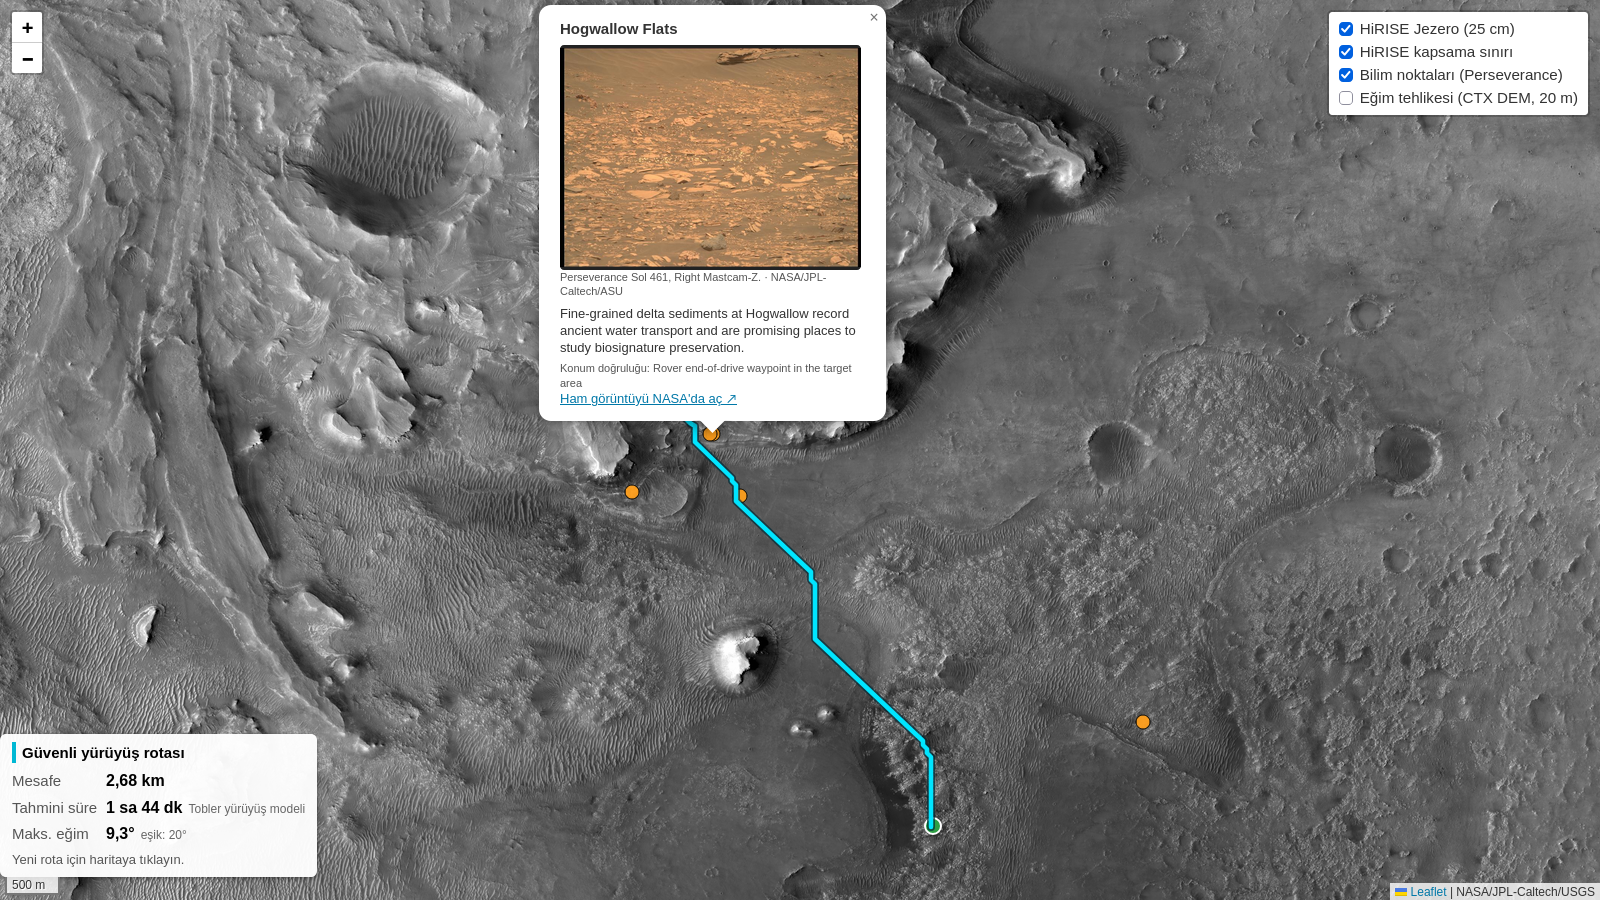
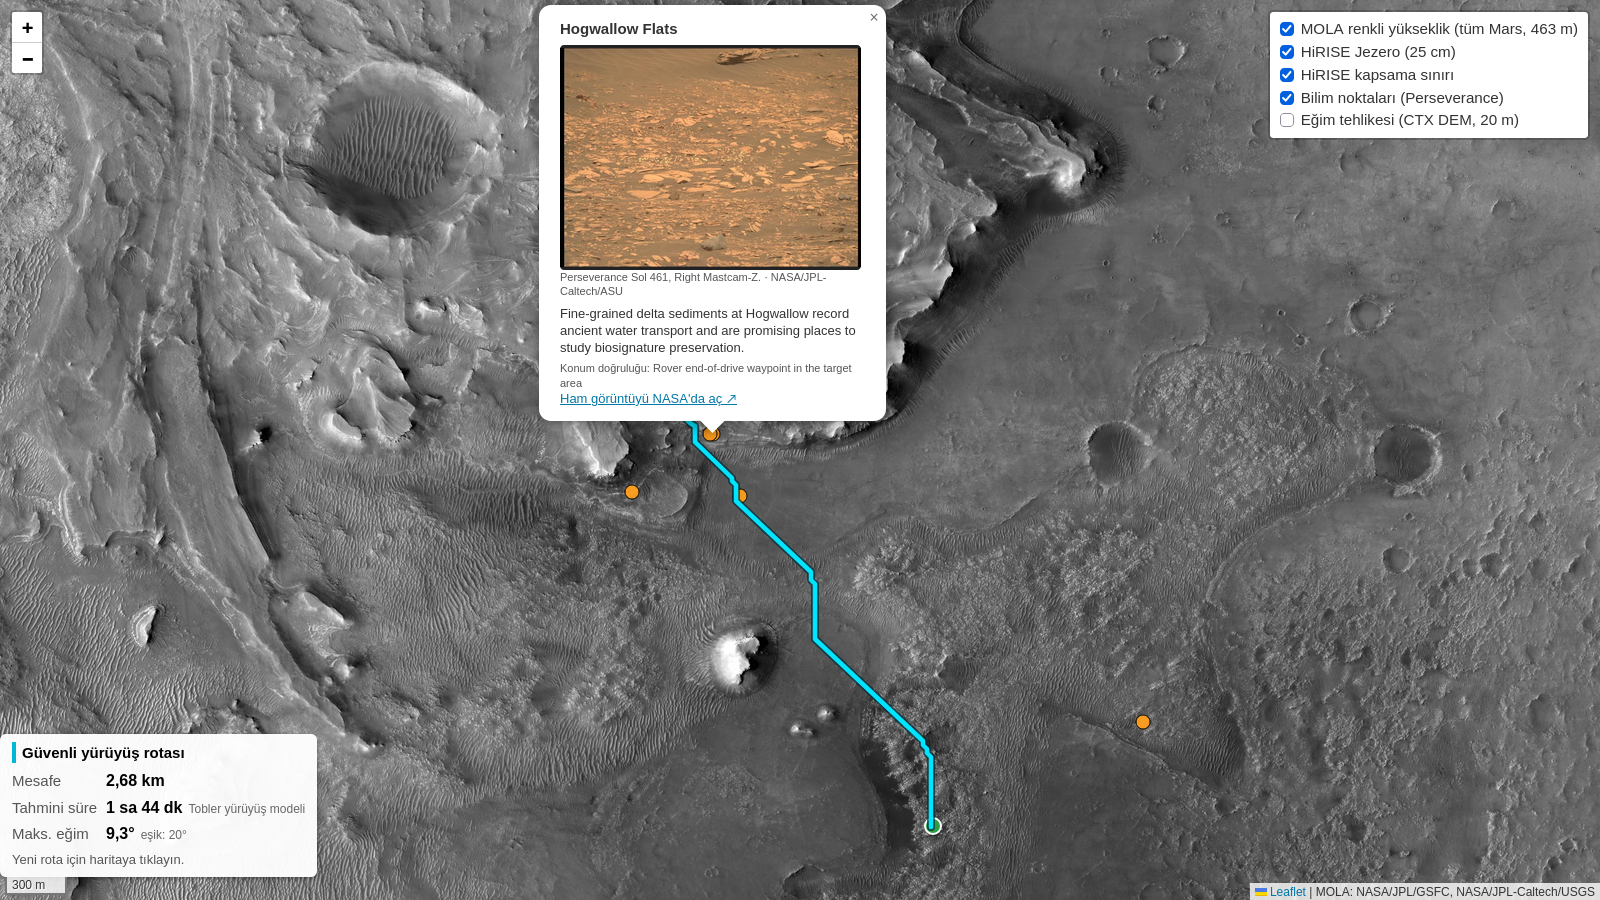
Frontend: MOLA altlık katmanı, Mars yarıçaplı ölçek çubuğu, ekran görüntüleri güncellendi

Changed region(s): [[0.7812, 0.0, 1.0, 0.1556], [0.7812, 0.9644, 0.9062, 1.0]]

diff --git a/frontend/app.js b/frontend/app.js
@@ -11,14 +11,28 @@
 // @media (max-width: 600px) ile aynı sınır.)
 const DAR_EKRAN = window.matchMedia("(max-width: 600px)").matches;
 
+// Leaflet'in EPSG4326'sı mesafeyi DÜNYA yarıçapıyla (6371 km) ölçer; ölçek
+// çubuğu bu yüzden Mars'ta ~1,88 kat yanlış çıkardı. Tile ızgarası aynı
+// kalsın, sadece yarıçap Mars olsun (backend'deki Mars 2000 küresiyle aynı: 3396190 m).
+const MARS_CRS = L.extend({}, L.CRS.EPSG4326, { R: 3396190 });
+
 const map = L.map("map", {
-  crs: L.CRS.EPSG4326,
+  crs: MARS_CRS,
   center: MAP_CENTER,
   zoom: MAP_ZOOM,
   maxZoom: HIRISE.maxZoom,
 });
 
 // ---------- 2) Katmanlar ----------
+// MOLA altlığı (tüm Mars): HiRISE kutusunun dışı siyah kalmasın diye.
+// zIndex 0 → panelden kapatıp açınca bile her zaman HiRISE'ın (zIndex 1) altında kalır.
+const molaKatmani = L.tileLayer(MOLA.url, {
+  attribution: MOLA.attribution,
+  maxNativeZoom: MOLA.maxNativeZoom,
+  maxZoom: HIRISE.maxZoom,
+  zIndex: 0,
+}).addTo(map);
+
 // HiRISE görüntü katmanı. "bounds" sayesinde kapsama dışı için istek atılmaz.
 const hiriseLayer = L.tileLayer(HIRISE.url, {
   attribution: HIRISE.attribution,
@@ -27,8 +41,8 @@ const hiriseLayer = L.tileLayer(HIRISE.url, {
   bounds: HIRISE.bounds,
 }).addTo(map);
 
-// HiRISE'ın kapsadığı alanı kesikli çizgiyle gösteren kutu. Kullanıcı bu
-// kutunun dışının neden siyah olduğunu anlasın diye. interactive:false →
+// HiRISE'ın kapsadığı alanı kesikli çizgiyle gösteren kutu. Kullanıcı
+// yüksek çözünürlüklü görüntünün nerede bittiğini görsün diye. interactive:false →
 // tıklamaları engellemez, tıklama haritaya geçer.
 const kapsamaKutusu = L.rectangle(HIRISE.bounds, {
   color: "#ffcc00", weight: 1, dashArray: "6 4", fill: false, interactive: false,
@@ -41,6 +55,7 @@ const bilimKatmani = L.layerGroup().addTo(map);
 // Katman aç/kapa kontrolü (sağ üst). Değişkende tutuyoruz ki sonradan
 // yüklenen katmanlar (eğim haritası) addOverlay ile eklenebilsin.
 const katmanKontrol = L.control.layers(null, {
+  "MOLA renkli yükseklik (tüm Mars, 463 m)": molaKatmani,
   "HiRISE Jezero (25 cm)": hiriseLayer,
   "HiRISE kapsama sınırı": kapsamaKutusu,
   "Bilim noktaları (Perseverance)": bilimKatmani,

diff --git a/frontend/config.js b/frontend/config.js
@@ -24,6 +24,18 @@ function buildRouteRequest(start, end) {
   };
 }
 
+// MOLA renkli gölgeli yükseklik (tüm Mars, 463 m/piksel): HiRISE'ın altındaki
+// geniş ölçekli altlık. Sadece görsel bağlam; eğim/rota hesabında KULLANILMAZ
+// (rota 20 m CTX DEM ile hesaplanır).
+// Dikkat: uzantı .jpg (png 404 verir); en yüksek zoom 7 (8 → 404). curl ile doğrulandı.
+// Leaflet 8 ve üstünde z7 tile'larını büyüterek gösterir.
+const MOLA = {
+  url: "https://trek.nasa.gov/tiles/Mars/EQ/Mars_MGS_MOLA_ClrShade_merge_global_463m/1.0.0//default/default028mm/{z}/{y}/{x}.jpg",
+  // !! Atıf metni veri rolünce Mars Trek katman sayfasından doğrulanacak.
+  attribution: "MOLA: NASA/JPL/GSFC",
+  maxNativeZoom: 7,
+};
+
 // Backend'in eğim sınırı (backend/routing.py → SAFETY_THRESHOLD_DEG).
 // Sadece özet kutusunda bilgi olarak gösterilir; rotayı backend sınırlar.
 // Backend değeri değişirse burayı da güncelleyin.

diff --git a/frontend/index.html b/frontend/index.html
@@ -62,6 +62,8 @@
       .egim-lejant { font-size: 12px; padding: 6px 8px; }
       .egim-lejant .baslik { display: none; }
       .egim-lejant .kare { width: 12px; height: 12px; }
+      /* Uzun atıf satırı ölçek çubuğunun üstüne binmesin: alt satıra kırılsın */
+      .leaflet-control-attribution { max-width: 60vw; white-space: normal; text-align: right; }
     }
 
     /* Bilim noktası popup'ı */
